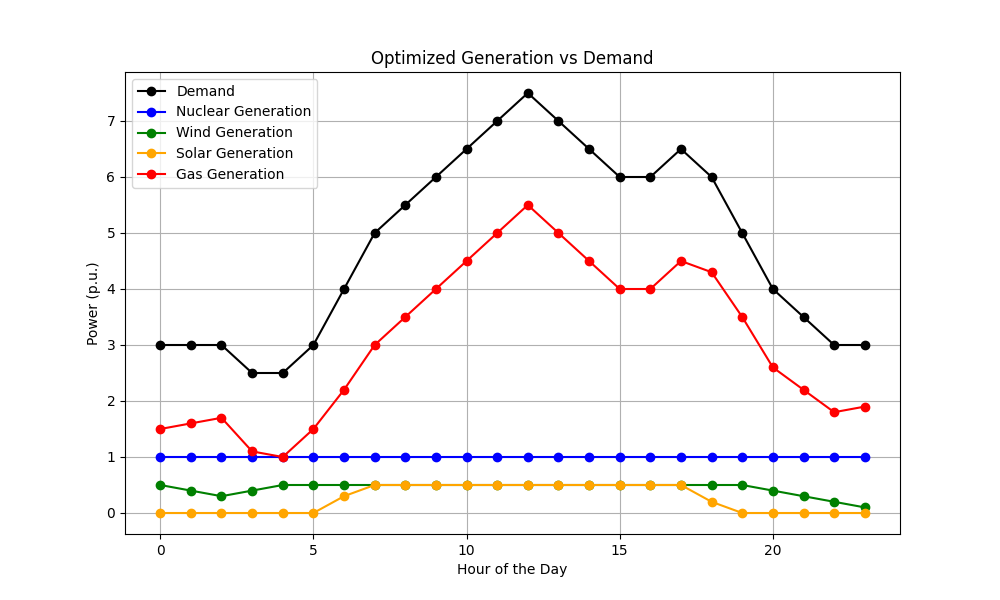
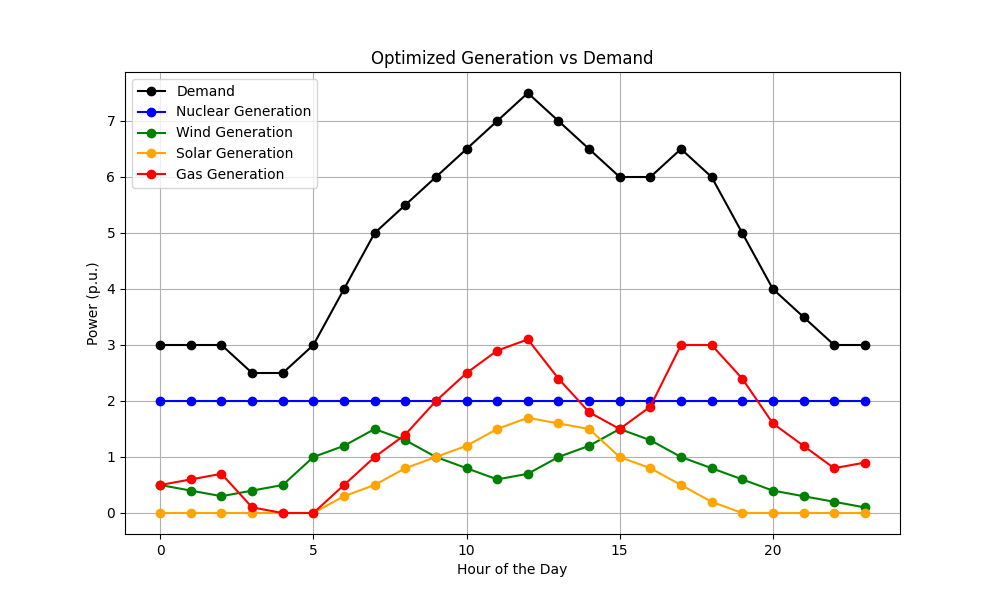
Prioritizing green energies by splitting the main loop hence getting rid of the 1st guess values. (green assets were already taken by default given their 0 weight in the cost fucntion). Added the visulisation.py 4 plots view and a comparison of the use with the demand

diff --git a/scripts/visualisation.py b/scripts/visualisation.py
@@ -19,52 +19,60 @@ solar_gen = data["solar_gen"]
 gas_gen = data["gas_gen"]
 total_costs = data["total_costs"]
 
-# Plot demand and generation availability
+# Calculate total generation
+total_generation = np.array(nuclear_gen) + np.array(wind_gen) + np.array(solar_gen) + np.array(gas_gen)
+
+# Create a 2x2 grid of plots
+fig, axs = plt.subplots(2, 2, figsize=(15, 10))
+
 hours = np.arange(24)
 
-plt.figure(figsize=(10, 6))
+# 1. Plot demand and generation availability
+axs[0, 0].plot(hours, hourly_demand, label='Demand', color='black', linestyle='-', marker='o')
+axs[0, 0].plot(hours, nuclear_availability, label='Nuclear Availability', color='blue', linestyle='--', marker='o')
+axs[0, 0].plot(hours, wind_availability, label='Wind Availability', color='green', linestyle='--', marker='o')
+axs[0, 0].plot(hours, solar_availability, label='Solar Availability', color='orange', linestyle='--', marker='o')
+axs[0, 0].plot(hours, gas_availability, label='Gas Availability', color='red', linestyle='--', marker='o')
+axs[0, 0].set_xlabel("Hour of the Day")
+axs[0, 0].set_ylabel("Power (p.u.)")
+axs[0, 0].set_title("Hourly Demand and Generation Availability")
+axs[0, 0].legend()
+axs[0, 0].grid(True)
 
-# Plot demand
-plt.plot(hours, hourly_demand, label='Demand', color='black', linestyle='-', marker='o')
+# 2. Plot optimized generation vs demand
+axs[0, 1].plot(hours, hourly_demand, label='Demand', color='black', linestyle='-', marker='o')
+axs[0, 1].plot(hours, nuclear_gen, label='Nuclear Generation', color='blue', linestyle='-', marker='o')
+axs[0, 1].plot(hours, wind_gen, label='Wind Generation', color='green', linestyle='-', marker='o')
+axs[0, 1].plot(hours, solar_gen, label='Solar Generation', color='orange', linestyle='-', marker='o')
+axs[0, 1].plot(hours, gas_gen, label='Gas Generation', color='red', linestyle='-', marker='o')
+axs[0, 1].set_xlabel("Hour of the Day")
+axs[0, 1].set_ylabel("Power (p.u.)")
+axs[0, 1].set_title("Optimized Generation vs Demand")
+axs[0, 1].legend()
+axs[0, 1].grid(True)
 
-# Plot generation availability
-plt.plot(hours, nuclear_availability, label='Nuclear Availability', color='blue', linestyle='--', marker='o')
-plt.plot(hours, wind_availability, label='Wind Availability', color='green', linestyle='--', marker='o')
-plt.plot(hours, solar_availability, label='Solar Availability', color='orange', linestyle='--', marker='o')
-plt.plot(hours, gas_availability, label='Gas Availability', color='red', linestyle='--', marker='o')
+# 3. Plot total generation vs demand
+axs[1, 0].plot(hours, hourly_demand, label='Demand', color='black', linestyle='-', marker='o')
+axs[1, 0].plot(hours, total_generation, label='Total Generation', color='purple', linestyle='--', marker='x')
+axs[1, 0].set_xlabel("Hour of the Day")
+axs[1, 0].set_ylabel("Power (p.u.)")
+axs[1, 0].set_title("Total Generation vs Demand")
+axs[1, 0].legend()
+axs[1, 0].grid(True)
 
-plt.xlabel("Hour of the Day")
-plt.ylabel("Power (p.u.)")
-plt.title("Hourly Demand and Generation Availability")
-plt.legend()
-plt.grid(True)
+# 4. Stacked bar plot to show contributions of each energy source
+axs[1, 1].bar(hours, nuclear_gen, label="Nuclear Generation", color="blue", edgecolor='black')
+axs[1, 1].bar(hours, wind_gen, bottom=nuclear_gen, label="Wind Generation", color="green", edgecolor='black')
+axs[1, 1].bar(hours, solar_gen, bottom=np.array(nuclear_gen) + np.array(wind_gen), label="Solar Generation", color="orange", edgecolor='black')
+axs[1, 1].bar(hours, gas_gen, bottom=np.array(nuclear_gen) + np.array(wind_gen) + np.array(solar_gen), label="Gas Generation", color="red", edgecolor='black')
+axs[1, 1].plot(hours, hourly_demand, label="Demand", color="black", linestyle='-', marker='o', linewidth=2)  # Plot demand on top
+axs[1, 1].set_xlabel("Hour of the Day")
+axs[1, 1].set_ylabel("Power (p.u.)")
+axs[1, 1].set_title("Generation Contributions vs Demand (Stacked)")
+axs[1, 1].legend()
+axs[1, 1].grid(True)
 
-# Save the plot
-plt.savefig('logs/figures/demand_vs_availability.png')
-
-# Show the plot
-plt.show()
-
-# Plot optimized generation vs demand
-plt.figure(figsize=(10, 6))
-
-# Plot demand
-plt.plot(hours, hourly_demand, label='Demand', color='black', linestyle='-', marker='o')
-
-# Plot optimized generation
-plt.plot(hours, nuclear_gen, label='Nuclear Generation', color='blue', linestyle='-', marker='o')
-plt.plot(hours, wind_gen, label='Wind Generation', color='green', linestyle='-', marker='o')
-plt.plot(hours, solar_gen, label='Solar Generation', color='orange', linestyle='-', marker='o')
-plt.plot(hours, gas_gen, label='Gas Generation', color='red', linestyle='-', marker='o')
-
-plt.xlabel("Hour of the Day")
-plt.ylabel("Power (p.u.)")
-plt.title("Optimized Generation vs Demand")
-plt.legend()
-plt.grid(True)
-
-# Save the plot
-plt.savefig('logs/figures/optimized_generation_vs_demand.png')
-
-# Show the plot
+# Adjust layout and save the plot
+plt.tight_layout()
+plt.savefig('logs/figures/four_plots_combined.png')
 plt.show()

diff --git a/scripts/grid-model.py b/scripts/grid-model.py
@@ -17,6 +17,9 @@ cost_coefficients = np.array([50,   # nuclear
 
 # Hourly demand for 24 hours
 hourly_demand = np.array([3, 3, 3, 2.5, 2.5, 3, 4, 5, 5.5, 6, 6.5, 7, 7.5, 7, 6.5, 6, 6, 6.5, 6, 5, 4, 3.5, 3, 3])
+# Split total demand between Load 1 and Load 2 (e.g., 60% to Load 1, 40% to Load 2)
+load1_demand = hourly_demand * 0.6  # 60% of total demand to Load 1
+load2_demand = hourly_demand * 0.4  # 40% of total demand to Load 2
 
 # Generation availability for each source (in p.u.)
 nuclear_availability = np.ones(24) * 2.0
@@ -96,33 +99,48 @@ initial_generation = [1.0,  # nuclear
                       2.0]  # gas
 
 for hour in range(24):
+    # Total demand for the current hour
     demand = hourly_demand[hour]
     
-    # Solve power generation using DC Power Flow
-    P_injections = [min(nuclear_availability[hour], initial_generation[0]),  # nuclear
-                    min(wind_availability[hour], initial_generation[1]),     # wind
-                    min(solar_availability[hour], initial_generation[2]),    # solar
-                    demand - (min(nuclear_availability[hour], initial_generation[0]) +
-                              min(wind_availability[hour], initial_generation[1]) +
-                              min(solar_availability[hour], initial_generation[2])),  # gas
-                    -load1_demand[hour],  # Negative injection for load 1
-                    -load2_demand[hour]]  # Negative injection for load 2
+    # Use wind and solar first, capped by their availability
+    wind_gen_hour = min(wind_availability[hour], demand)
+    remaining_demand = demand - wind_gen_hour
     
-    # Run power flow with new injections
+    solar_gen_hour = min(solar_availability[hour], remaining_demand)
+    remaining_demand -= solar_gen_hour
+    
+    # Use nuclear generation next
+    nuclear_gen_hour = min(nuclear_availability[hour], remaining_demand)
+    remaining_demand -= nuclear_gen_hour
+    
+    # Gas fills any remaining demand (if any)
+    gas_gen_hour = max(0, remaining_demand)  # Ensure gas generation is non-negative
+    
+    # Power injections now include generation for Load 1 and Load 2
+    P_injections = [nuclear_gen_hour,        # Nuclear
+                    wind_gen_hour,           # Wind
+                    solar_gen_hour,          # Solar
+                    gas_gen_hour,            # Gas
+                    -load1_demand[hour],     # Negative injection for Load 1
+                    -load2_demand[hour]]     # Negative injection for Load 2
+    
+    # Run power flow with the updated injections
     theta, P_nuclear_wind, P_nuclear_solar, P_wind_gas, P_solar_gas, P_nuclear_load1, P_solar_load1, P_nuclear_load2, P_wind_load2 = dc_power_flow(P_injections)
     
-    # Assign generation outputs
-    nuclear_gen.append(P_injections[0])
-    wind_gen.append(P_injections[1])
-    solar_gen.append(P_injections[2])
-    gas_gen.append(P_injections[3])
+    # Store generation outputs
+    nuclear_gen.append(nuclear_gen_hour)
+    wind_gen.append(wind_gen_hour)
+    solar_gen.append(solar_gen_hour)
+    gas_gen.append(gas_gen_hour)
     
-    # Calculate and store total cost (only considering generation, not loads)
-    total_cost = objective(P_injections[:4])
+    # Calculate and store total cost (only for generation, not loads)
+    total_cost = objective(P_injections[:4])  # Only consider the generation part of P_injections
     total_costs.append(total_cost)
 
-    print(f"Hour {hour}: Nuclear: {P_injections[0]:.2f} p.u., Wind: {P_injections[1]:.2f} p.u., Solar: {P_injections[2]:.2f} p.u., Gas: {P_injections[3]:.2f} p.u., Load1: {P_injections[4]:.2f} p.u., Load2: {P_injections[5]:.2f} p.u.")
+    print(f"Hour {hour}: Nuclear: {P_injections[0]:.2f} p.u., Wind: {P_injections[1]:.2f} p.u., Solar: {P_injections[2]:.2f} p.u., Gas: {P_injections[3]:.2f} p.u.")
     print(f"Total Generation Cost: ${total_cost:.2f}")
+
+
 
 # ================================
 # 4. Save Data 
@@ -147,7 +165,7 @@ with open('data/optimization_results.pkl', 'wb') as f:
 print("Optimization results saved to 'data/optimization_results.pkl'")
 
 # Save the results in a CSV file
-with open("generation_results.csv", "w", newline='') as csvfile:
+with open("data/results/generation_results.csv", "w", newline='') as csvfile:
     writer = csv.writer(csvfile)
     # Write the header with units
     writer.writerow(["Hour", "Nuclear (p.u.)", "Wind (p.u.)", "Solar (p.u.)", "Gas (p.u.)", "Total Cost ($)"])
